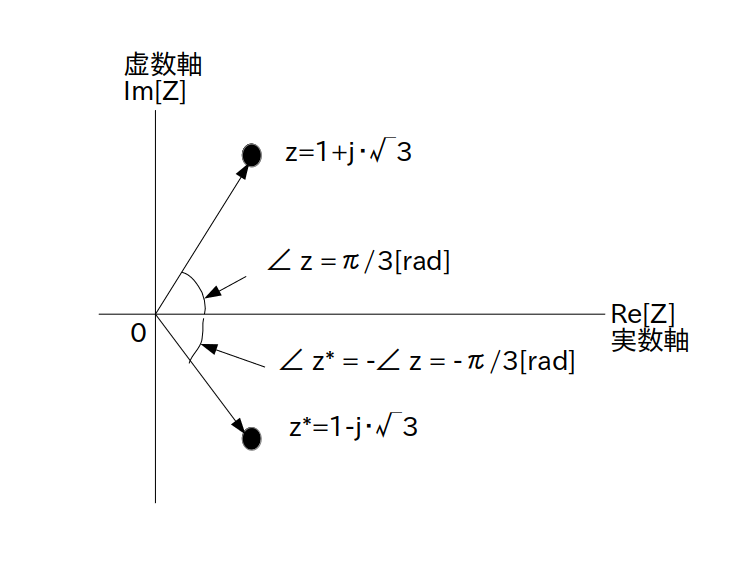
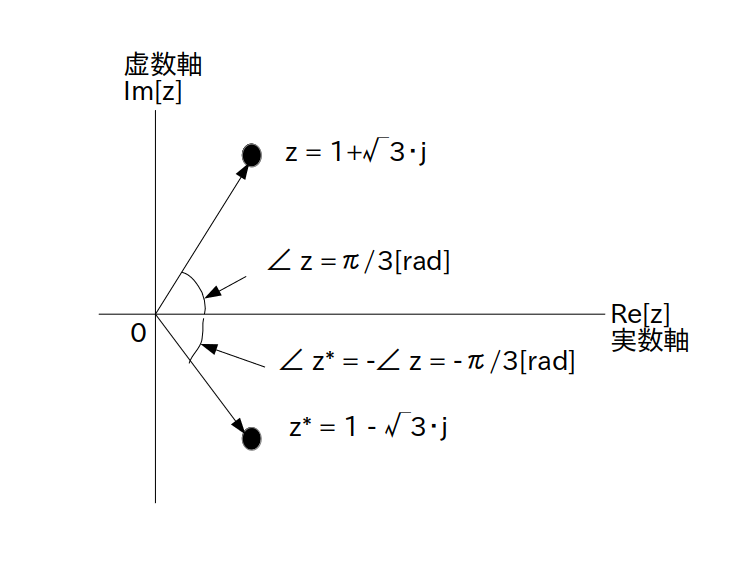
complex更新

diff --git a/docs/activity/complex/text01/page07.html b/docs/activity/complex/text01/page07.html
@@ -127,7 +127,13 @@ z \cdot \textrm{e}^{\{j\cdot \theta\}} = |z| \cdot \textrm{e}^{\{j\cdot (\angle 
 </p>
 
 <p>
-まず任意の 2 次元ベクトル $(x,y)$ を元に複素数 $z = x + j \cdot y$ を作ります。
+まず任意の 2 次元ベクトル $(x,y)$ を元に複素数
+</p>
+\[
+z = x + y \cdot j
+\]
+<p>
+を作ります。
 <br>
 $z$ を $\theta$ だけ回転させた複素数は上で示した通りに
 </p>
@@ -139,17 +145,18 @@ $z$ を $\theta$ だけ回転させた複素数は上で示した通りに
 <p>
 となります。
 <br>
-次にこれを直交形式に変換して sin と cos を展開します。
+次にこれを直交形式に変換して sin と cos を<a href="https://ja.wikipedia.org/wiki/%E4%B8%89%E8%A7%92%E9%96%A2%E6%95%B0%E3%81%AE%E5%85%AC%E5%BC%8F%E3%81%AE%E4%B8%80%E8%A6%A7">加法定理</a>を使って展開します。
 </p>
 
 \begin{align*}
 |z| \cdot \textrm{e}^{\{j\cdot (\angle \ z+\theta) \}} 
-=& |z| \cdot \cos (\angle \ z+\theta) + j \cdot |z| \cdot \sin (\angle \ z+\theta) \\
 
-=& \left \{ |z| \cdot \cos \angle \ z \cdot \cos\theta - |z| \cdot \sin \angle \ z \cdot \sin\theta \right \} \\
-&+ j \left \{ |z| \cdot \sin \angle \ z \cdot \cos\theta + |z| \cdot \cos \angle \ z \cdot \sin\theta \right \} \\
+= & (|z| \cdot \cos (\angle \ z+\theta)) + \{ |z| \cdot \sin (\angle \ z+\theta) \} \cdot j \\[10pt]
 
-=& \left \{ x \cdot \cos\theta - y \cdot \sin\theta \right \} + j \left \{ y \cdot \cos\theta + x \cdot \sin\theta \right \} \\
+(\text{加法定理より}) = & \left \{ |z| \cdot \cos \angle \ z \cdot \cos\theta - |z| \cdot \sin \angle \ z \cdot \sin\theta \right \} \\
+& + \left \{ |z| \cdot \sin \angle \ z \cdot \cos\theta + |z| \cdot \cos \angle \ z \cdot \sin\theta \right \} \cdot j \\[10pt]
+
+=& \left \{ x \cdot \cos\theta - y \cdot \sin\theta \right \} + \left \{ y \cdot \cos\theta + x \cdot \sin\theta \right \} \cdot j\\
 \end{align*}
 
 <p>

diff --git a/docs/activity/complex/text01/page05.html b/docs/activity/complex/text01/page05.html
@@ -28,7 +28,7 @@
 <input type="checkbox"><b>極形式 → 直交形式に変換</b>
 \[
 |z| \cdot \textrm{e}^{\{j\cdot \angle \ z\}} 
-= |z| \cdot \cos \angle \ z + j \cdot |z| \cdot \sin \angle \ z
+= ( |z| \cdot \cos \angle \ z ) +  ( |z| \cdot \sin \angle \ z ) \cdot j
 \]
 </div>
 
@@ -40,7 +40,7 @@
 <div class="info">
 <input type="checkbox"><b>直交形式 → 極形式に変換</b>
 \[
-z = a + j \cdot b
+z = a + b \cdot j
 \]
 <p>
 に対し、絶対値と偏角を以下のようにして求める。
@@ -49,10 +49,10 @@ z = a + j \cdot b
 |z| = \sqrt{ a^2 + b^2} \ ,\ \angle \ z = \textrm{atan2}(b,a)
 \]
 <p>
-※1 プログラミング言語や表計算ソフトによっては引数が $\textrm{atan2}(a,b)$ の場合もある
+※1 プログラミング言語や表計算ソフトによっては引数が $\textrm{atan2}(a,b)$ の場合もあります
 </p>
 <p>
-※2 言語によっては絶対値と偏角を同時に変換してくれる関数もある (例えば python の cmath.polar 関数)
+※2 言語によっては絶対値と偏角を同時に変換してくれる関数もあります (例えば python の cmath.polar 関数)
 </p>
 
 

diff --git a/docs/activity/complex/text01/page04.html b/docs/activity/complex/text01/page04.html
@@ -33,7 +33,7 @@
 $\theta$ を任意の実数とした時、
 </p>
 \[
-\textrm{e}^{\{j\cdot \theta \}} = \cos \theta + j \cdot \sin \theta
+\textrm{e}^{\{j\cdot \theta \}} = \cos \theta + \sin \theta \cdot j
 \]
 </div>
 
@@ -49,7 +49,7 @@ $\theta$ を任意の実数とした時、
 \begin{align*}
 \cos \theta &= \frac{ \textrm{e}^{\{j\cdot \theta \}} + \textrm{e}^{\{-j\cdot \theta \}}}{2} \\
 \\
-\sin \theta &= \frac{ \textrm{e}^{\{j\cdot \theta \}} - \textrm{e}^{\{-j\cdot \theta \}}}{2\cdot j} 
+\sin \theta &= \frac{ \textrm{e}^{\{j\cdot \theta \}} - \textrm{e}^{\{-j\cdot \theta \}}}{2 \cdot j} 
 \end{align*}
 </div>
 
@@ -62,7 +62,7 @@ $\theta$ を任意の実数とした時、
 </p>
 
 \[
-\frac{1}{j} = \frac{j}{j^2} = -j = \textrm{e}^{\{-j\cdot \pi/2\}}
+\frac{1}{j} = \frac{j}{j^2} = -j = \textrm{e}^{\{-j \cdot \pi/2\}}
 \]
 
 <p>

diff --git a/docs/activity/complex/text01/page06.html b/docs/activity/complex/text01/page06.html
@@ -40,8 +40,8 @@
 </p>
 
 \begin{align*}
-z_1 &= a + j \cdot b \\
-z_2 &= c + j \cdot d \\
+z_1 &= a + b \cdot j \\
+z_2 &= c + d \cdot j \\
 z_3 &= z_1 + z_2
 \end{align*}
 
@@ -50,7 +50,7 @@ z_3 &= z_1 + z_2
 </p>
 
 \[
-z_3 = (a + c) + j \cdot (b + d)
+z_3 = (a + c) +  (b + d) \cdot j
 \]
 </div>
 
@@ -82,13 +82,13 @@ z_3 = (a + c) + j \cdot (b + d)
 </p>
 
 \begin{align*}
-z_1 &= a + j \cdot b \\
-z_2 &= c + j \cdot d \\
+z_1 &= a + b \cdot j \\
+z_2 &= c + d \cdot j \\
 z_3 &= z_1 - z_2
 \end{align*}
 
 \[
-z_3 = (a - c) + j \cdot (b - d)
+z_3 = (a - c) + (b - d) \cdot j
 \]
 
 </div>

diff --git a/docs/activity/complex/text01/page03.html b/docs/activity/complex/text01/page03.html
@@ -40,7 +40,7 @@ $a$ と $b$ が実数の時
 </p>
 
 \[
-z = a + j \cdot b
+z = a + b \cdot j
 \]
 
 </div>
@@ -65,7 +65,7 @@ z = a + j \cdot b
 例:
 </p>
 <p>
-$z=1+j\cdot\sqrt{3}$
+$z=1 + \sqrt{3} \cdot j$
 </p>
 <p>
 の位置を絶対値と偏角で表すと以下の図になる
@@ -131,13 +131,13 @@ z = |z| \cdot \textrm{e}^{\{j\cdot \angle \ z\}}
 例
 </p>
 <p>
-$z=1+j\cdot\sqrt{3}$
+$z=1+ \sqrt{3} \cdot j$
 </p>
 <p>
 と
 </p>
 <p>
-$z^*=1-j\cdot\sqrt{3}$
+$z^*=1- \sqrt{3} \cdot j$
 </p>
 <p>
 は偏角の符号だけが異なる(絶対値は同じで $|z| = |z^*| = 2$ )

diff --git a/docs/activity/complex/text01/page02.html b/docs/activity/complex/text01/page02.html
@@ -21,7 +21,7 @@
 <h2><script>GetTitle()</script></h2>
 
 <p>
-複素数をきちんと理解するためには「<b>複素平面(complex plane)</b>」または「ガウス平面」についても学ぶ必要があります。
+複素数をきちんと理解するためには「<a href="https://ja.wikipedia.org/wiki/%E8%A4%87%E7%B4%A0%E5%B9%B3%E9%9D%A2">複素平面</a>(complex plane)」または「ガウス平面」についても学ぶ必要があります。
 </p>
 
 <p>
@@ -54,7 +54,7 @@
 例:
 </p>
 <p>
-$z = 1+j\cdot 2$
+$z = 1 + 2 \cdot j$
 </p>
 <p>
 及び

diff --git a/docs/activity/complex/text03/page01.html b/docs/activity/complex/text03/page01.html
@@ -222,7 +222,7 @@ q_1q_2 = (w_1w_2 - v_1\cdot v_2\ ,\  w_1v_2 + w_2v1 + v1\times v2)
 \]
 
 <p>
-ここで「$\cdot$」は内積で「$\times$」はクロス積である。
+ここで「$\cdot$」は<a href="https://ja.wikipedia.org/wiki/%E3%83%89%E3%83%83%E3%83%88%E7%A9%8D">内積(ドット積)</a>で「$\times$」は<a href="https://ja.wikipedia.org/wiki/%E3%82%AF%E3%83%AD%E3%82%B9%E7%A9%8D">クロス積</a>である。
 </p>
 
 </div>

diff --git a/docs/activity/complex/text01/practice.html b/docs/activity/complex/text01/practice.html
@@ -53,8 +53,8 @@
 z_1 &= 0 \\
 z_2 &= -2.5 \\
 z_3 &= j \\
-z_4 &= \sqrt{5} - j\cdot 2 \\
-z_5 &= -1 + j\cdot \sqrt{3} 
+z_4 &= \sqrt{5} - 2 \cdot j \\
+z_5 &= -1 + \sqrt{3} \cdot j 
 \end{align*}
 <p>
 の複素平面上での位置を調べてみましょう。

diff --git a/docs/activity/complex/index.html b/docs/activity/complex/index.html
@@ -18,7 +18,7 @@
 <h1><script>GetTitle()</script></h1>
 
 <p>
-最終更新日: 2021/10/6
+最終更新日: 2022/5/23
 </p>
 
 <div class="info">
